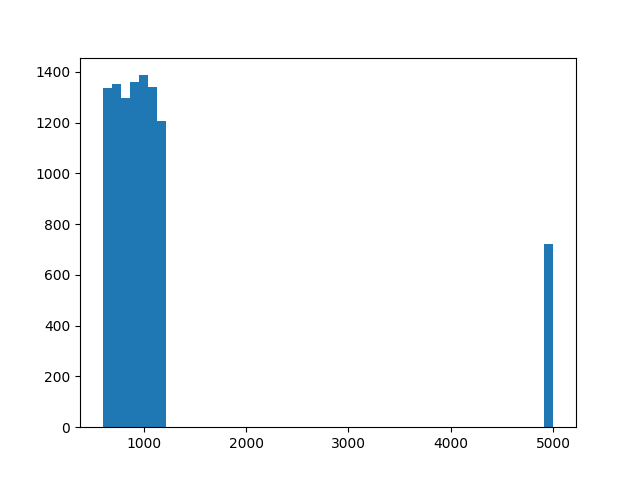
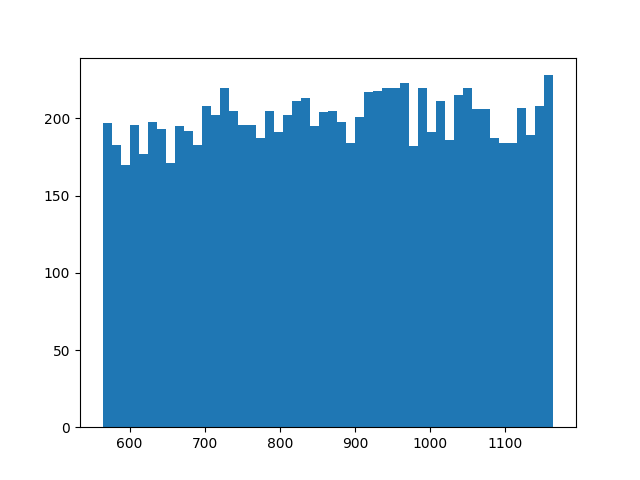
fixed proxy and randomness

diff --git a/follow_bot.py b/follow_bot.py
@@ -48,6 +48,12 @@ class Bot:
             self._cl.load_settings(IG_CREDENTIAL_PATH)
             self._cl.login(IG_USERNAME, IG_PASSWORD)
         else:
+            self._cl.set_proxy('SOCKS4://bogota:proxy@200.106.216.64:63253') #Proxy from https://www.proxydocker.com/en/proxy/200.106.216.64:63253
+            self._cl.set_locale('es_CO')
+
+            self._cl.set_timezone_offset(-5 * 3600)
+
+
             self._cl.login(IG_USERNAME, IG_PASSWORD)
             self._cl.dump_settings(IG_CREDENTIAL_PATH)
     
@@ -159,8 +165,6 @@ class Bot:
         with open('follow_track.json', 'w') as f:
             json.dump(jsondata, f)
 
-        print(account, userID) #DELETE
-
         return datasets, jsondata
 
 
@@ -173,7 +177,7 @@ if __name__ == '__main__':
         """
         datasets, jsondata = bot.update(datasets, jsondata)
 
-        secs = choices([randint(600,1200),5000],weights=[0.925,0.075])[0] 
+        secs = randint(564,1164) #Expected value: 864 
 
         print(f'Waiting {secs} seconds')
 

diff --git a/probtests/probtest.py b/probtests/probtest.py
@@ -6,7 +6,7 @@ seconds = []
 for _ in range(10000):
     for j in range(100000):
         s = []
-        s.append(choices([randint(600,1200),5000],weights=[0.925,0.075])[0])
+        s.append(randint(564,1164))
     seconds.append(sum(s)/len(s))  
     
     if _%500 == 0: 
